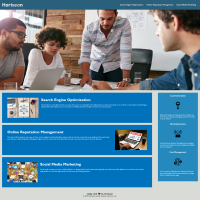
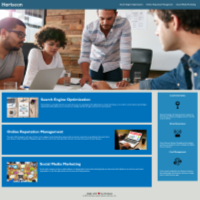
Changed layout of my work section and added git hub link

diff --git a/index.html b/index.html
@@ -6,7 +6,7 @@
     <meta charset="UTF-8">
     <meta http-equiv="X-UA-Compatible" content="IE=edge">
     <meta name="viewport" content="width=device-width, initial-scale=1.0">
-    <script src="https://platform.linkedin.com/badges/js/profile.js" async defer type="text/javascript"></script>
+    
     <title>Jake Schlei's Portfolio</title>
 </head>
 
@@ -32,6 +32,7 @@
             </ul>
         </nav>
     </header>
+
     <!-- Hero -->
     <section class="hero">
         <div class="hero-motto">
@@ -66,14 +67,48 @@
             </h3>
         </div>
         <div class="column img-column">
+            <div class="main-proj">
+                <img src="./assets/images/Capture.PNG" alt="screenshot of the run buddy landing page">
+                <div class="project-desc">
+                    <p>Run Buddy Landing Page</p>
+                    <a href="https://jakeschlei.github.io/run-buddy/" target="_blank"></a>
+                </div>
+            </div>
+            <div class = "other-projects">
             <a href="https://jakeschlei.github.io/Week-1-Horiseon-Refractor/" target="_blank"><img
-                    src="./assets/images/screencapture-jakeschlei-github-io-Week-1-Horiseon-Refractor-2022-07-26-18_12_50.png"
-                    alt="screenshot of Horiseon website I refactored">
+                src="./assets/images/screencapture-jakeschlei-github-io-Week-1-Horiseon-Refractor-2022-07-26-18_12_50.png"
+                alt="screenshot of Horiseon website I refactored">
             </a>
-            <a href="https://jakeschlei.github.io/run-buddy/" target="_blank"><img
-                    src="./assets/images/screencapture-file-C-Users-Jake-Desktop-projects-run-buddy-index-html-2022-07-26-18_01_39 (1).png"
-                    alt="screenshot of the run buddy landing page">
+            <a href="#" target="_blank"><img 
+                src="https://picsum.photos/200"
+                alt="placeholder for future projects">
             </a>
+            <a href="#" target="_blank"><img 
+                src="https://picsum.photos/200"
+                alt="placeholder for future projects">
+            </a>
+            <a href="#" target="_blank"><img 
+                src="https://picsum.photos/200"
+                alt="placeholder for future projects">
+            </a>
+            <a href="#" target="_blank"><img 
+                src="https://picsum.photos/200"
+                alt="placeholder for future projects">
+            </a>
+            <a href="#" target="_blank"><img 
+                src="https://picsum.photos/200"
+                alt="placeholder for future projects">
+            </a>
+            <a href="#" target="_blank"><img 
+                src="https://picsum.photos/200"
+                alt="placeholder for future projects">
+            </a>
+            <a href="#" target="_blank"><img 
+                src="https://picsum.photos/200"
+                alt="placeholder for future projects">
+            </a>
+            
+            </div>
         </div>
     </section>
 
@@ -86,8 +121,6 @@
         </div>
         <div class="column img-column">
             <img src="./assets/images/0_pxb9-4jdzxSp1K5Y.png" alt="html5 and css logos">
-
-
         </div>
     </section>
 
@@ -105,10 +138,9 @@
                     href="https://www.linkedin.com/in/jacob-schlei-593578159?trk=profile-badge">
                 </a>
             </div>
-
-
-
-
+            <div class="other-links">
+                <a href="https://github.com/JakeSchlei">Visit my GitHub!</a>
+            </div>
         </div>
     </section>
 
@@ -117,7 +149,7 @@
         <h3>Powered by coffee and lo-fi hip hop</h3>
         <div>2022 Jake Schlei</div>
     </footer>
-
+    <script src="https://platform.linkedin.com/badges/js/profile.js" async defer type="text/javascript"></script>
 </body>
 
 </html>

diff --git a/assets/css/styles.css b/assets/css/styles.css
@@ -29,7 +29,7 @@ header {
     position: -webkit-sticky;
     position: sticky;
     top: 0;
-    z-index: 99999;
+    z-index: 3;
 }
 
 header h1 {
@@ -110,7 +110,7 @@ section {
 }
 .section-title {
     text-align: center;
-    padding: 30px;
+    padding: 50px;
     margin: 30px 0; 
     font-size: 48px;
     color: var(--tertiary-color);
@@ -129,10 +129,43 @@ section {
 
 /* My Work */
 
+.main-proj img {
+    width: 80%;
+    border: 3px solid var(--tertiary-color);
+    opacity: 0.4;
+}
+
+/* .project-desc {
+    position: absolute;
+    top: 0;
+    left: 0%;
+    display: flex;
+    flex-direction: column;
+    align-items: center;
+    justify-content: center;
+    background-color: var(--primary-color);
+    font-size: 20px;
+    padding: 5%;
+    width: 80%;
+} */
+
+.main-proj:hover .project-desc {
+    opacity: 1;
+    z-index: 2;
+}
+
+.main-proj:hover {
+    box-shadow: 5px 5px 10px black;
+    transform: scale(1.05);
+}
+
 #my-work img {
     opacity: 0.4;
+    border: 3px solid var(--tertiary-color);
   
 }
+
+
 
 #my-work img:hover {
     opacity: 1;
